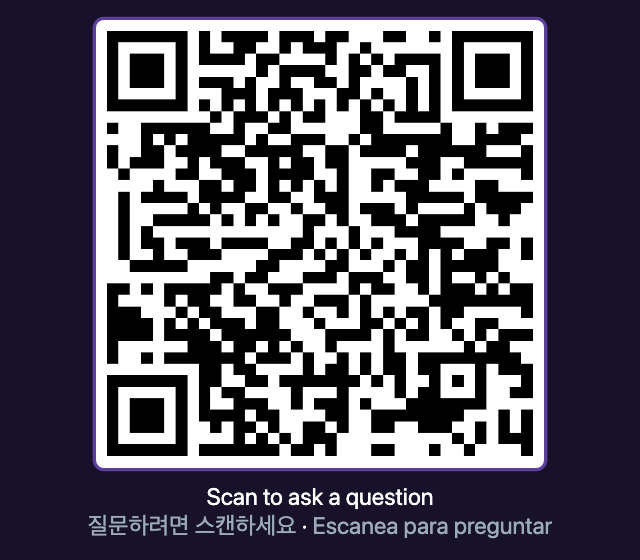
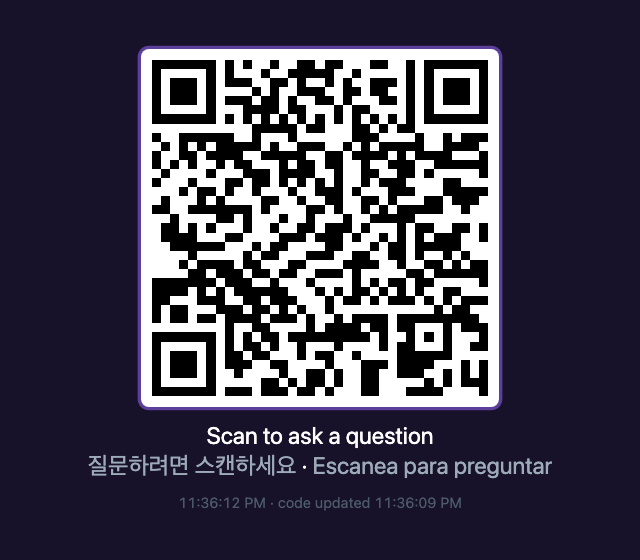
Refresh README screenshots for 2.3.x
Queue shows Answer now, answered topics sinking and the Dismissed section;
room screen shows the clock; adds the PowerPoint QR view. Demo clock starts
at the real time so time-based labels look right.

Claude-Session: https://claude.ai/code/session_01EY8XoE4YLwhusmYikuZqJH

diff --git a/scripts/preview.js b/scripts/preview.js
@@ -77,6 +77,8 @@ function logoDataUrl() {
 function buildDemo() {
   const h = createApp({ owner: USERS.owner }).install({ moderators: ['maria@example.org', 'jin@example.org'], admins: ['alex@example.org'] });
   h.env.gemini = demoGemini;
+  // Start the demo just before now, so pages comparing against the real clock look normal.
+  h.env.clock.now = Date.now() - 6 * 60 * 1000;
   h.app.saveBrand({
     orgName: 'Community Family Network',
     accent: '#5b3f9a',
@@ -109,8 +111,10 @@ function buildDemo() {
     prepared: ['What new programs are planned for teens and young adults next year?',
                'How can families give feedback between meetings?'] });
   QUESTIONS.forEach((q) => { h.ask(live, h.join(live), q[0]); h.advance(20); });
+  h.ask(live, h.join(live), 'Follow my page for free giveaways!!!');
   h.app.clusterQuestions();
   h.as(USERS.mod);
+  h.app.setStatus(live.id, [h.questions().rows.find((r) => /giveaways/.test(r[3]))[0]], 'dismissed');
   h.app.setStatus(live.id, [h.questions().rows.find((r) => r[3] === QUESTIONS[9][0])[0]], 'answered');
   h.app.mergeTopic(live.id, 'Respite care hours');
   h.app.setNowAnswering(live.id, 'Respite care hours');

diff --git a/scripts/screenshots.js b/scripts/screenshots.js
@@ -43,7 +43,7 @@ function shots(ctx) {
     { name: 'room-screen-1024', url: () => '/?view=present&s=' + s + '&as=owner', size: [1024, 768], check: true },
     { name: 'participant-phone', url: () => phone('/?s=' + s + '&t=' + token() + '&lang=en'), size: [600, 844], crop: [390, 844], scale: 2, before: setNow('Respite care hours') },
     { name: 'participant-phone-korean', url: () => phone('/?s=' + s + '&t=' + token() + '&lang=ko'), size: [600, 844], crop: [390, 844], scale: 2 },
-    { name: 'facilitator-queue', url: () => '/?view=moderate&s=' + s + '&as=mod', size: [1280, 1000] },
+    { name: 'facilitator-queue', url: () => '/?view=moderate&s=' + s + '&as=mod', size: [1280, 1500] },
     { name: 'landing-page', url: () => '/', size: [1280, 800] },
     { name: 'admin-sessions', url: () => '/?view=admin&as=owner', size: [1280, 1000] },
     { name: 'admin-people', url: () => '/?view=admin&as=owner#click=people', size: [1280, 800] },

diff --git a/README.md b/README.md
@@ -28,7 +28,8 @@ License: Apache 2.0
 
 All screenshots use made-up demo data from `scripts/preview.js`.
 
-**Room screen:** QR code, instructions in three languages, and the topic being answered.
+**Room screen:** QR code, instructions in three languages, the topic being answered, and a
+clock showing the code is live.
 
 ![Room screen with a topic being answered](docs/screenshots/room-screen-answering.png)
 
@@ -40,11 +41,16 @@ All screenshots use made-up demo data from `scripts/preview.js`.
 </table>
 
 **QA Facilitator queue:** questions grouped by topic across languages, a merged question to
-read aloud, Me too counts, show-on-phones approval, and prepared questions.
+read aloud, *Answer now*, Me too counts, show-on-phones approval, prepared questions,
+answered topics sinking to the bottom, and dismissed questions kept for restoring.
 
 ![QA Facilitator queue](docs/screenshots/facilitator-queue.png)
 
-**Admin:** sessions, branding, and health checks.
+**PowerPoint:** the [Question Desk QR add-in](docs/addin/README.md) shows the live code on a slide.
+
+<img src="docs/screenshots/slide-qr.png" alt="QR-only view shown on a PowerPoint slide" width="480">
+
+**Admin:** sessions, people and summary recipients, branding, and health checks.
 
 ![Admin sessions](docs/screenshots/admin-sessions.png)
 
